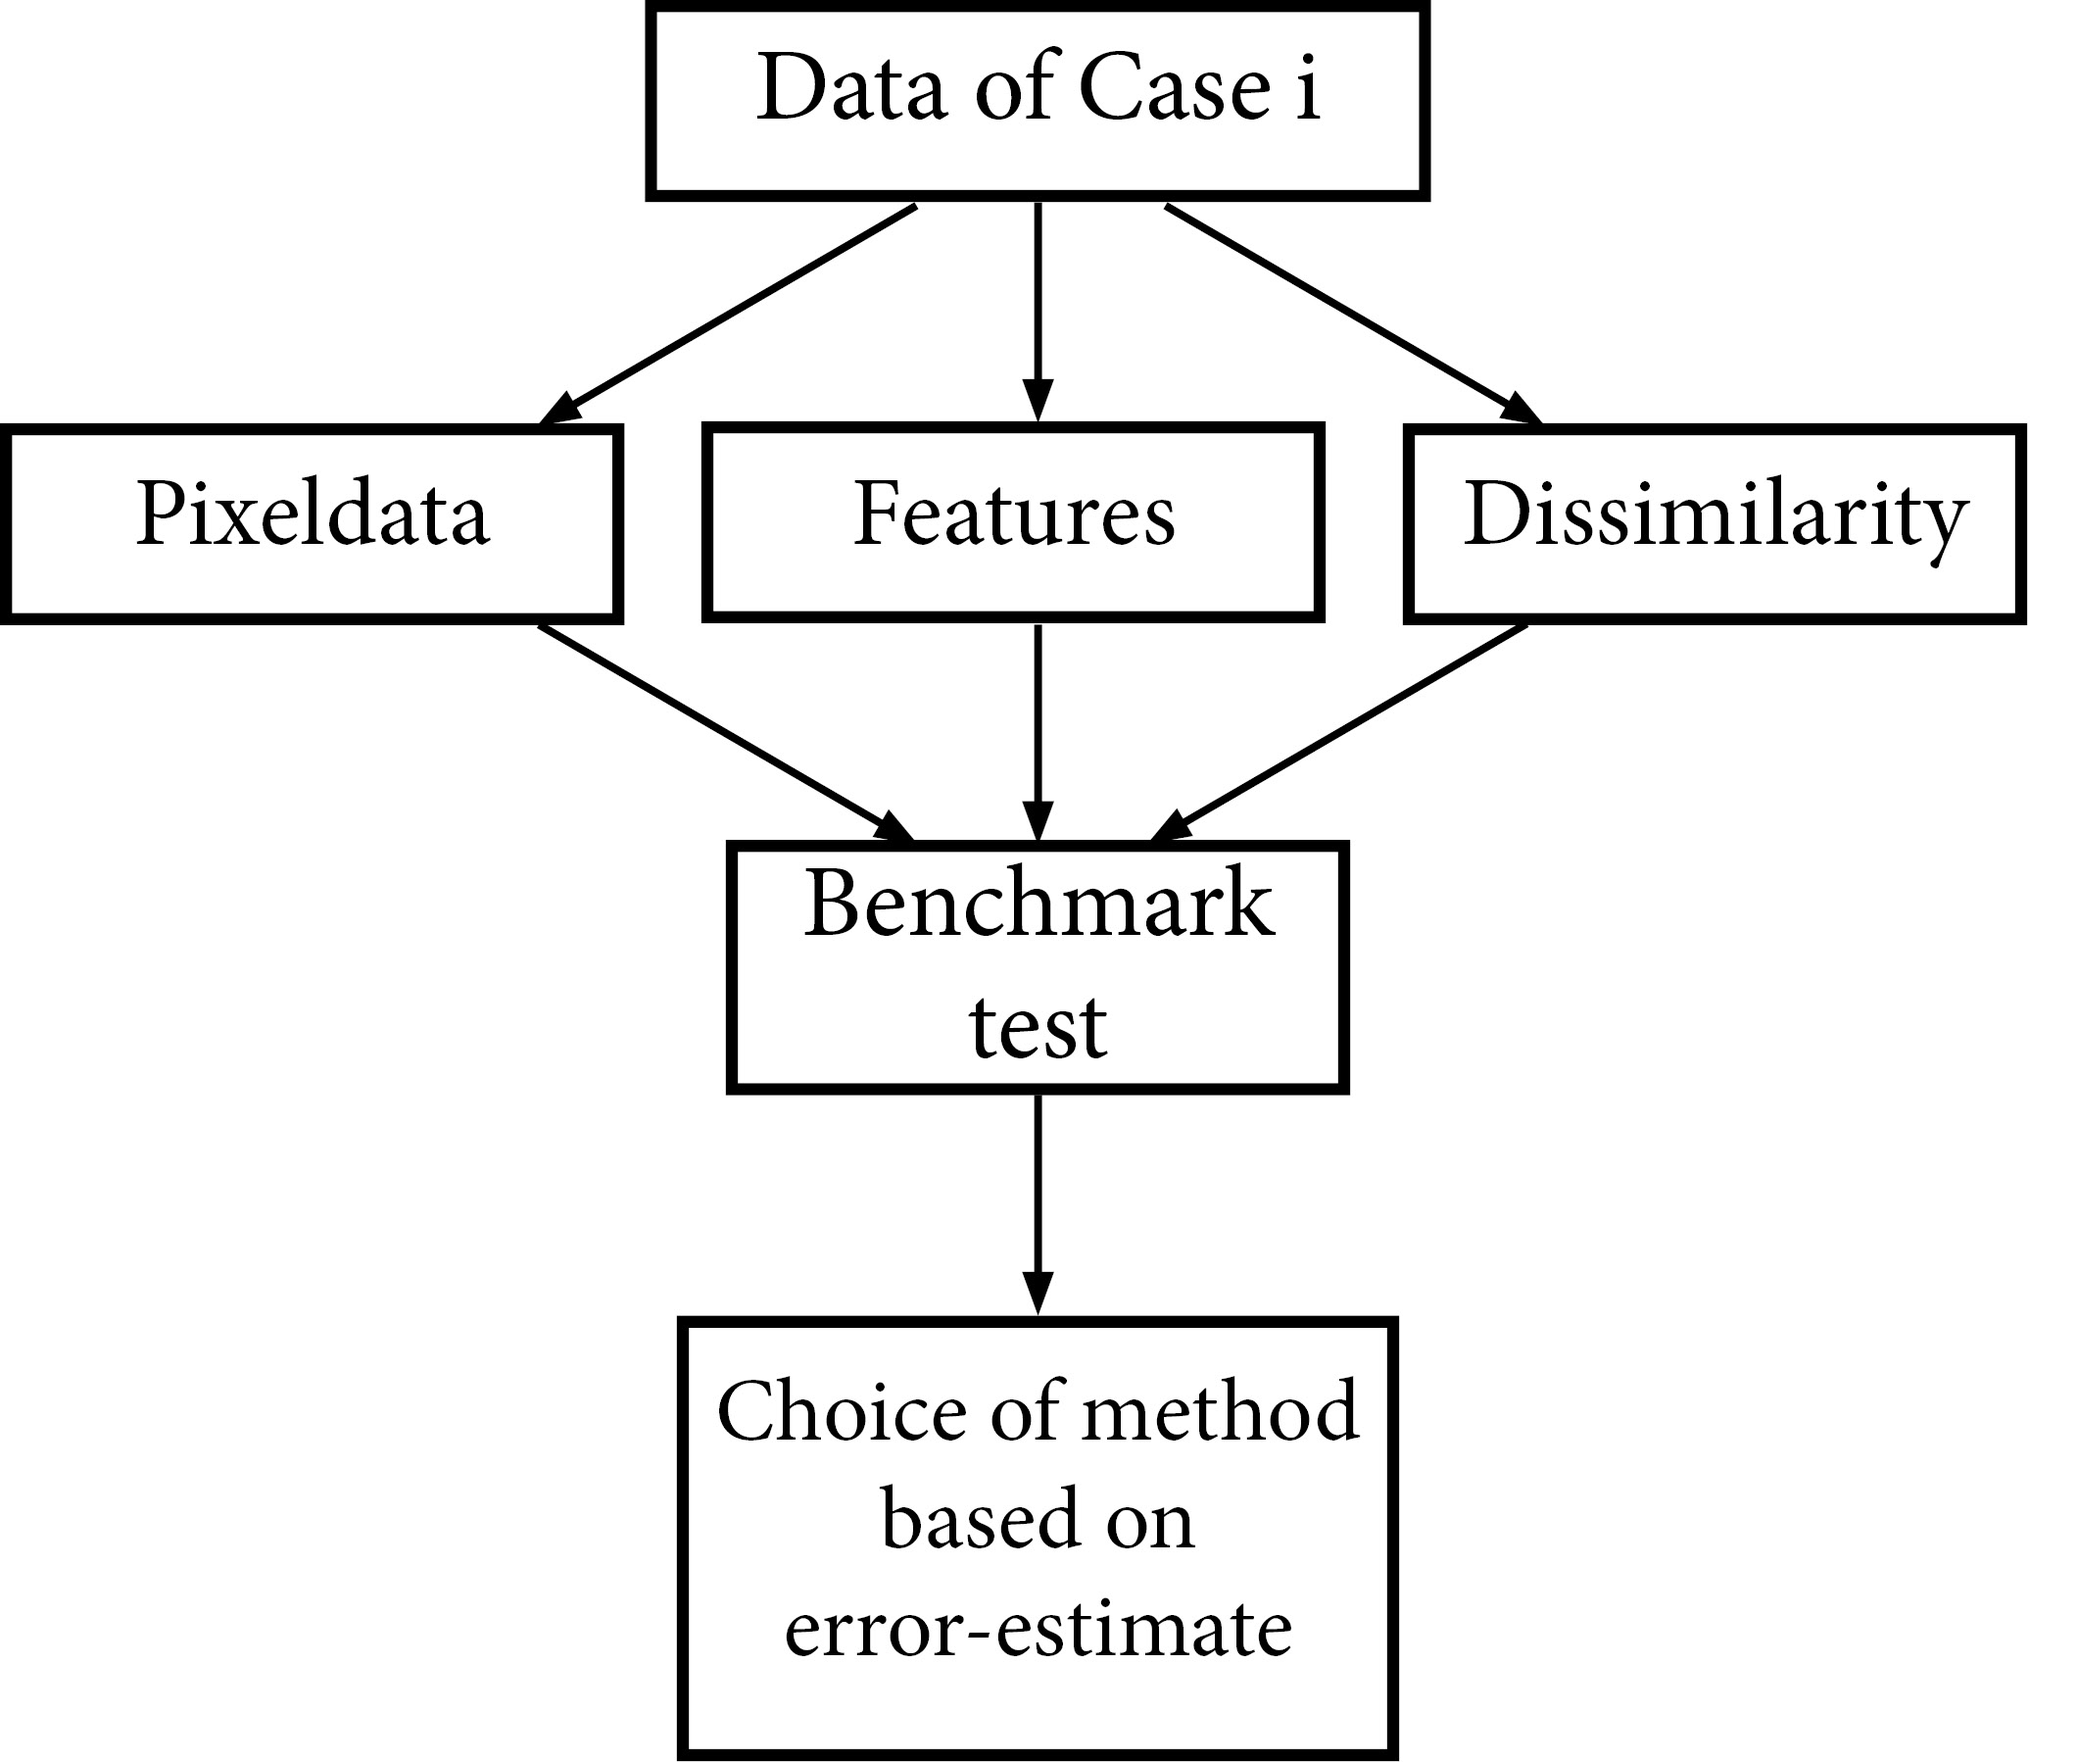
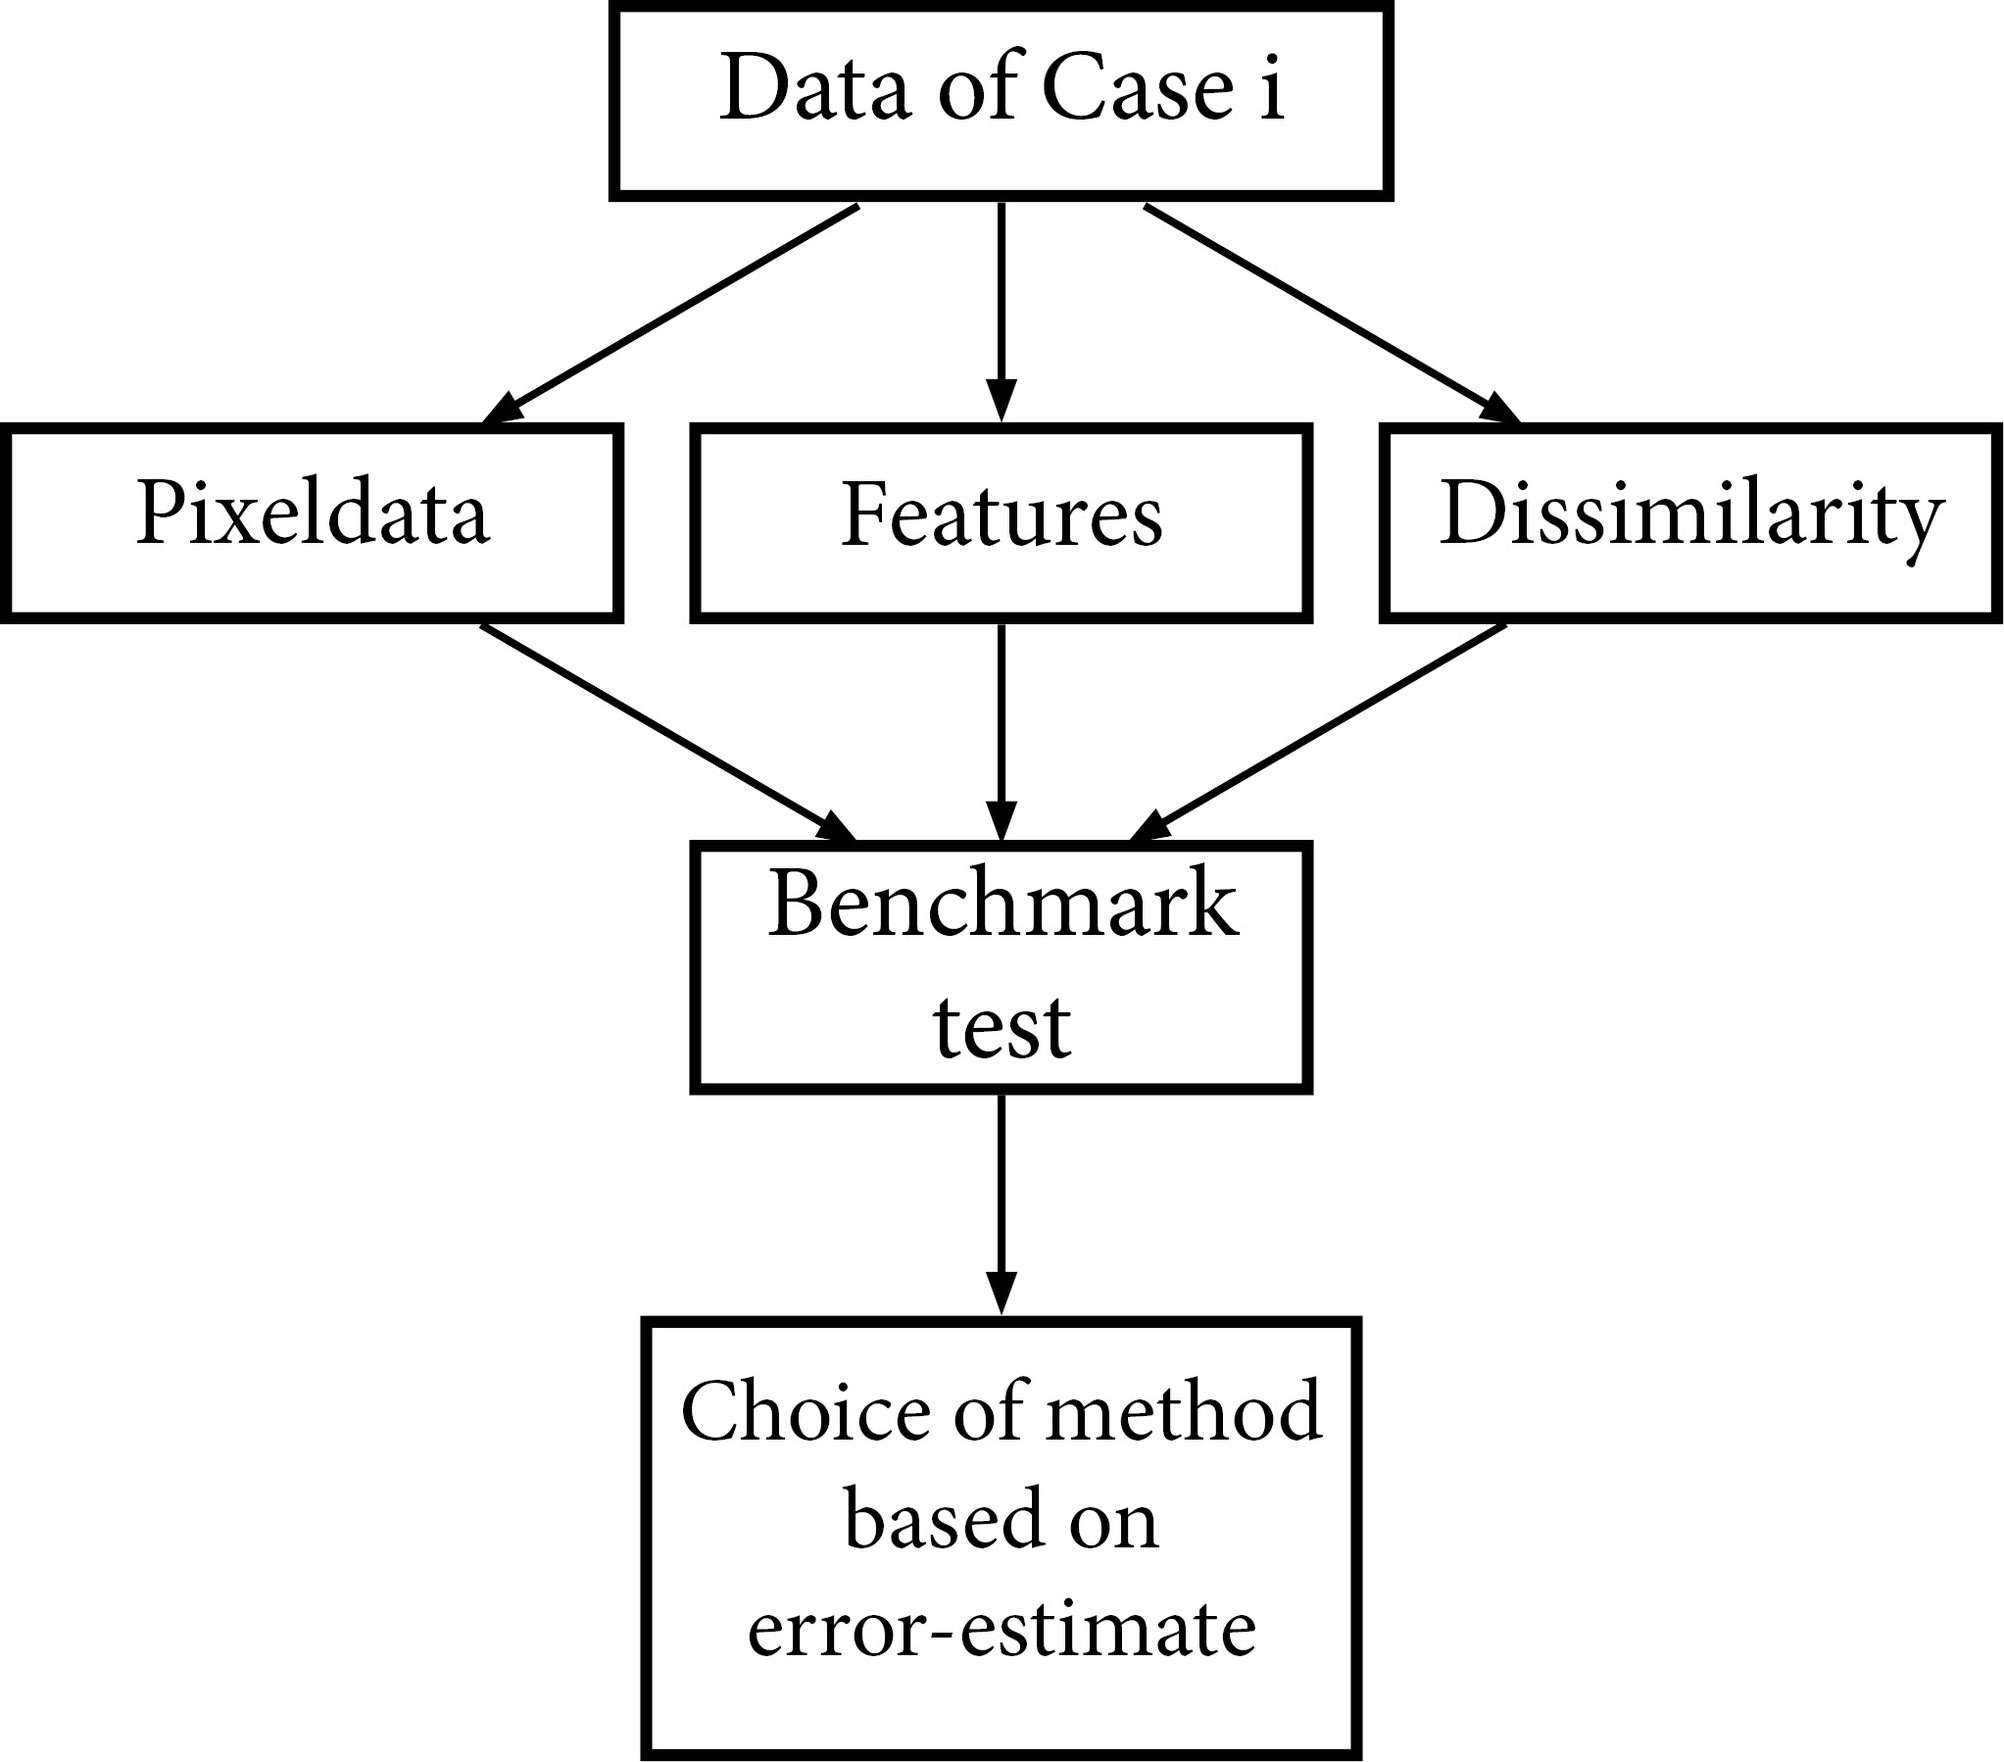
Added some chapters, Altered an image.

diff --git a/report_sebas/Disc_Concl.tex b/report_sebas/Disc_Concl.tex
@@ -1,0 +1,11 @@
+\section{Discussion and Conclusion}
+\label{sec:DiscConcl}
+
+Include a section Recommendations to your report, in which you advise your client in detail on possible steps to improve performance in light of the overall system they are constructing. \\
+For example:\\
+will having more training data help?\\
+would other features help? \\
+does the application require reject options? \\
+does a single classifier suffice for all digits on a bank cheque? \\
+what is the role of time constraints?
+

diff --git a/report_sebas/Evaluation.tex b/report_sebas/Evaluation.tex
@@ -1,0 +1,8 @@
+\section{Classifier Evaluation}
+\label{sec:Eval}
+
+\subsection{Evaluation of Image Processing}
+
+\subsection{Evaluation of Case 1}
+
+\subsection{Evaluation of Case 2}

diff --git a/report_sebas/main.tex b/report_sebas/main.tex
@@ -43,8 +43,10 @@ Samenvatting over report (weet niet of het er in moet?)
 \input{Image_Processing}
 
 \input{Classifier_Design}
+
+\input{Evaluation} 
  
-  
+\input{Disc_Concl}  
 
 
 
